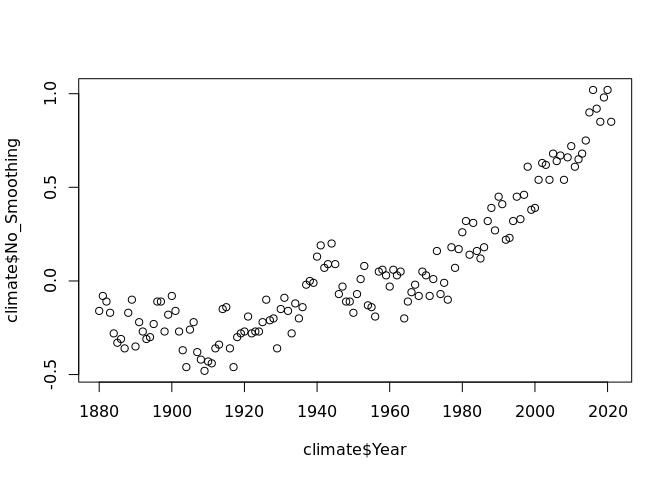
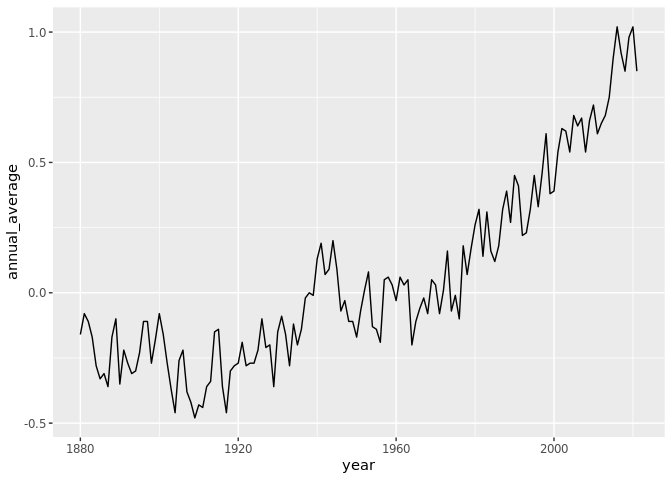
check 5

diff --git a/assignment/climate.md b/assignment/climate.md
@@ -90,40 +90,28 @@ the following data set:
 
 ``` r
 climate <- read_table("http://climate.nasa.gov/system/internal_resources/details/original/647_Global_Temperature_Data_File.txt",
-           skip = 2,
-           na="NA")
-```
-
-    ## 
-    ## ── Column specification ────────────────────────────────────────────────────────
-    ## cols(
-    ##   Year = col_character(),
-    ##   No_Smoothing = col_double(),
-    ##   `Lowess(5)` = col_double()
-    ## )
-
-    ## Warning: 1 parsing failure.
-    ## row col  expected    actual                                                                                                      file
-    ##   1  -- 3 columns 1 columns 'http://climate.nasa.gov/system/internal_resources/details/original/647_Global_Temperature_Data_File.txt'
-
-``` r
+           col_names = c("year", "annual_average", "five_year_average"),
+           na="NA",
+           col_types = ('ddd'),
+           skip = 5
+           )
 climate
 ```
 
-    ## # A tibble: 143 × 3
-    ##    Year                         No_Smoothing `Lowess(5)`
-    ##    <chr>                               <dbl>       <dbl>
-    ##  1 ----------------------------        NA          NA   
-    ##  2 1880                                -0.16       -0.09
-    ##  3 1881                                -0.08       -0.13
-    ##  4 1882                                -0.11       -0.16
-    ##  5 1883                                -0.17       -0.2 
-    ##  6 1884                                -0.28       -0.24
-    ##  7 1885                                -0.33       -0.26
-    ##  8 1886                                -0.31       -0.27
-    ##  9 1887                                -0.36       -0.27
-    ## 10 1888                                -0.17       -0.26
-    ## # ℹ 133 more rows
+    ## # A tibble: 142 × 3
+    ##     year annual_average five_year_average
+    ##    <dbl>          <dbl>             <dbl>
+    ##  1  1880          -0.16             -0.09
+    ##  2  1881          -0.08             -0.13
+    ##  3  1882          -0.11             -0.16
+    ##  4  1883          -0.17             -0.2 
+    ##  5  1884          -0.28             -0.24
+    ##  6  1885          -0.33             -0.26
+    ##  7  1886          -0.31             -0.27
+    ##  8  1887          -0.36             -0.27
+    ##  9  1888          -0.17             -0.26
+    ## 10  1889          -0.1              -0.25
+    ## # ℹ 132 more rows
 
 ## Question 3:
 
@@ -131,12 +119,14 @@ Plot the trend in global mean temperatures over time. Describe what you
 see in the plot and how you interpret the patterns you observe.
 
 ``` r
-plot(climate$Year,climate$No_Smoothing)
+ggplot(climate,aes(x= year, y = annual_average)) + geom_line()
 ```
 
-    ## Warning in xy.coords(x, y, xlabel, ylabel, log): NAs introduced by coercion
-
 ![](climate_files/figure-gfm/unnamed-chunk-5-1.png)<!-- -->
+
+``` r
+#plot(climate$year,climate$annual_average)
+```
 
 ## Question 4: Evaluating the evidence for a “Pause” in warming?
 
@@ -175,12 +165,14 @@ global temperature change by performing regression analysis.
   why.
 
 ``` r
-plot(climate$Year,climate$`Lowess(5)`)
+ggplot(climate,aes(x= year, y = five_year_average)) + geom_line()
 ```
 
-    ## Warning in xy.coords(x, y, xlabel, ylabel, log): NAs introduced by coercion
-
 ![](climate_files/figure-gfm/unnamed-chunk-6-1.png)<!-- -->
+
+``` r
+#ggplot(co2, aes(x = decimal_date, y = monthly_average)) + geom_line() 
+```
 
 # Exercise II: Melting Ice Sheets?
 
